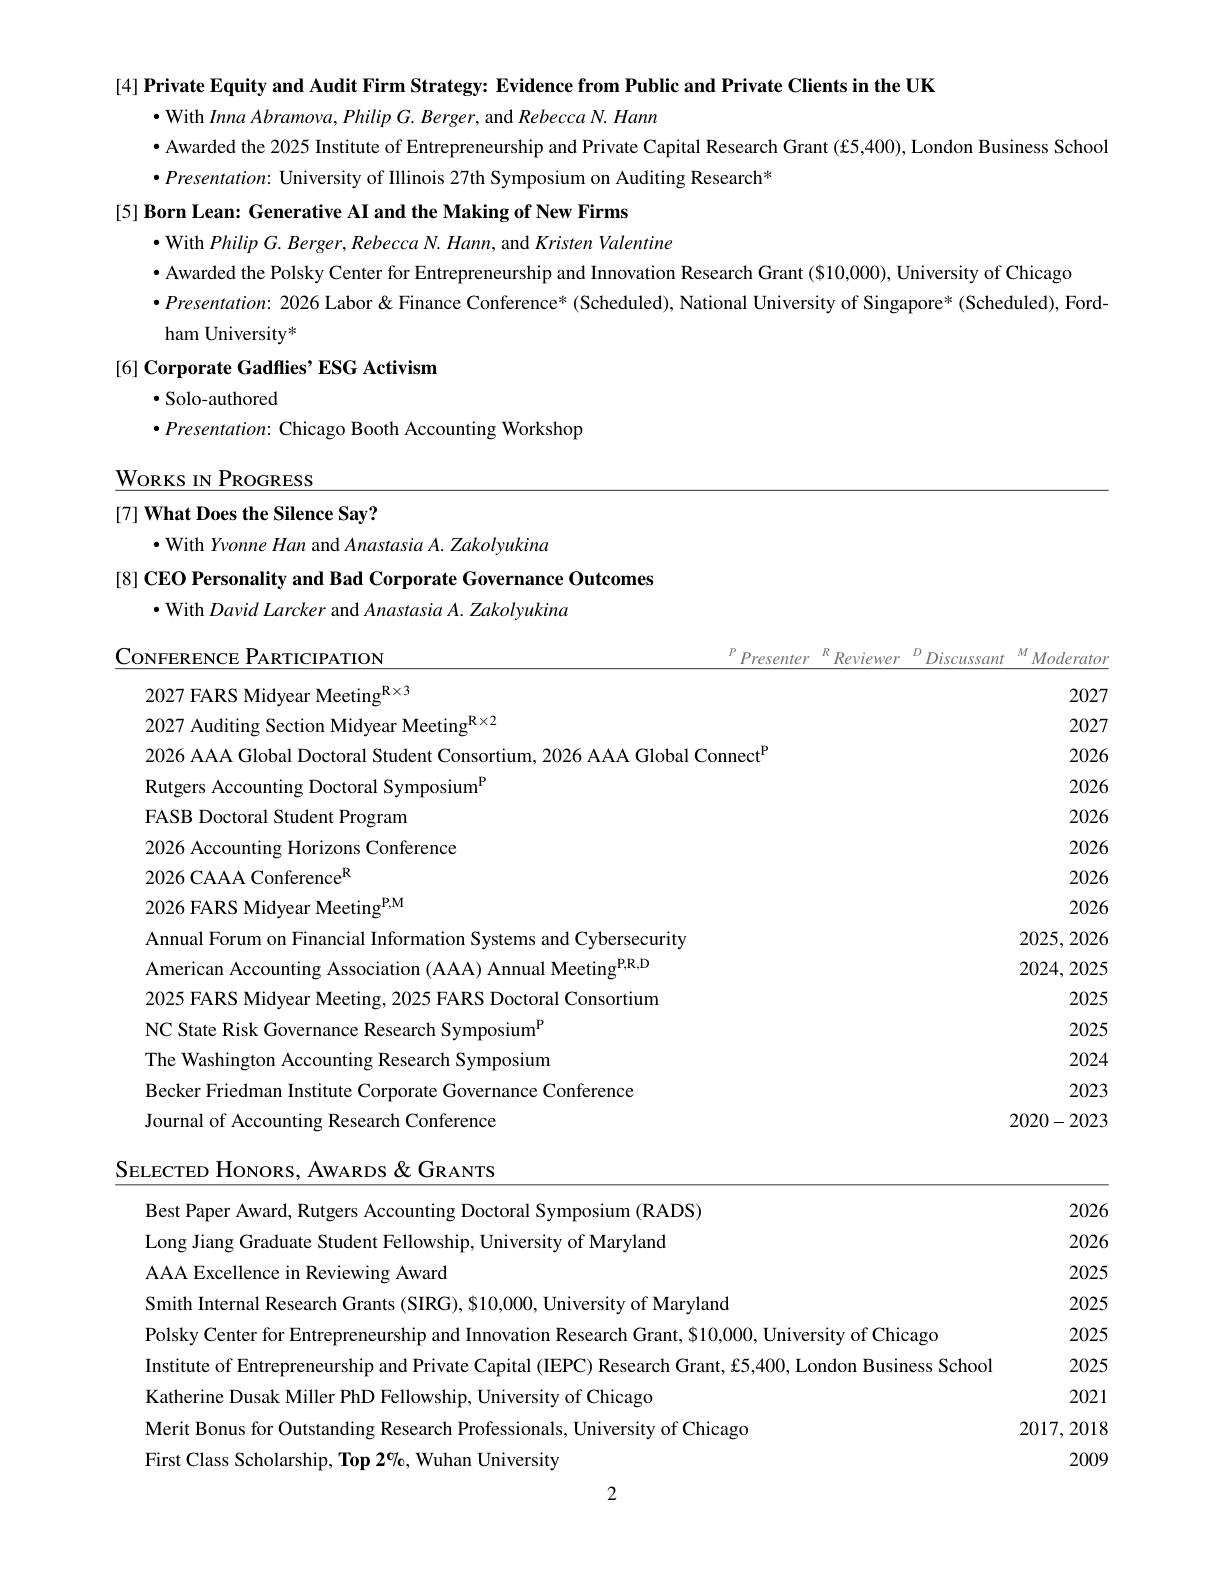
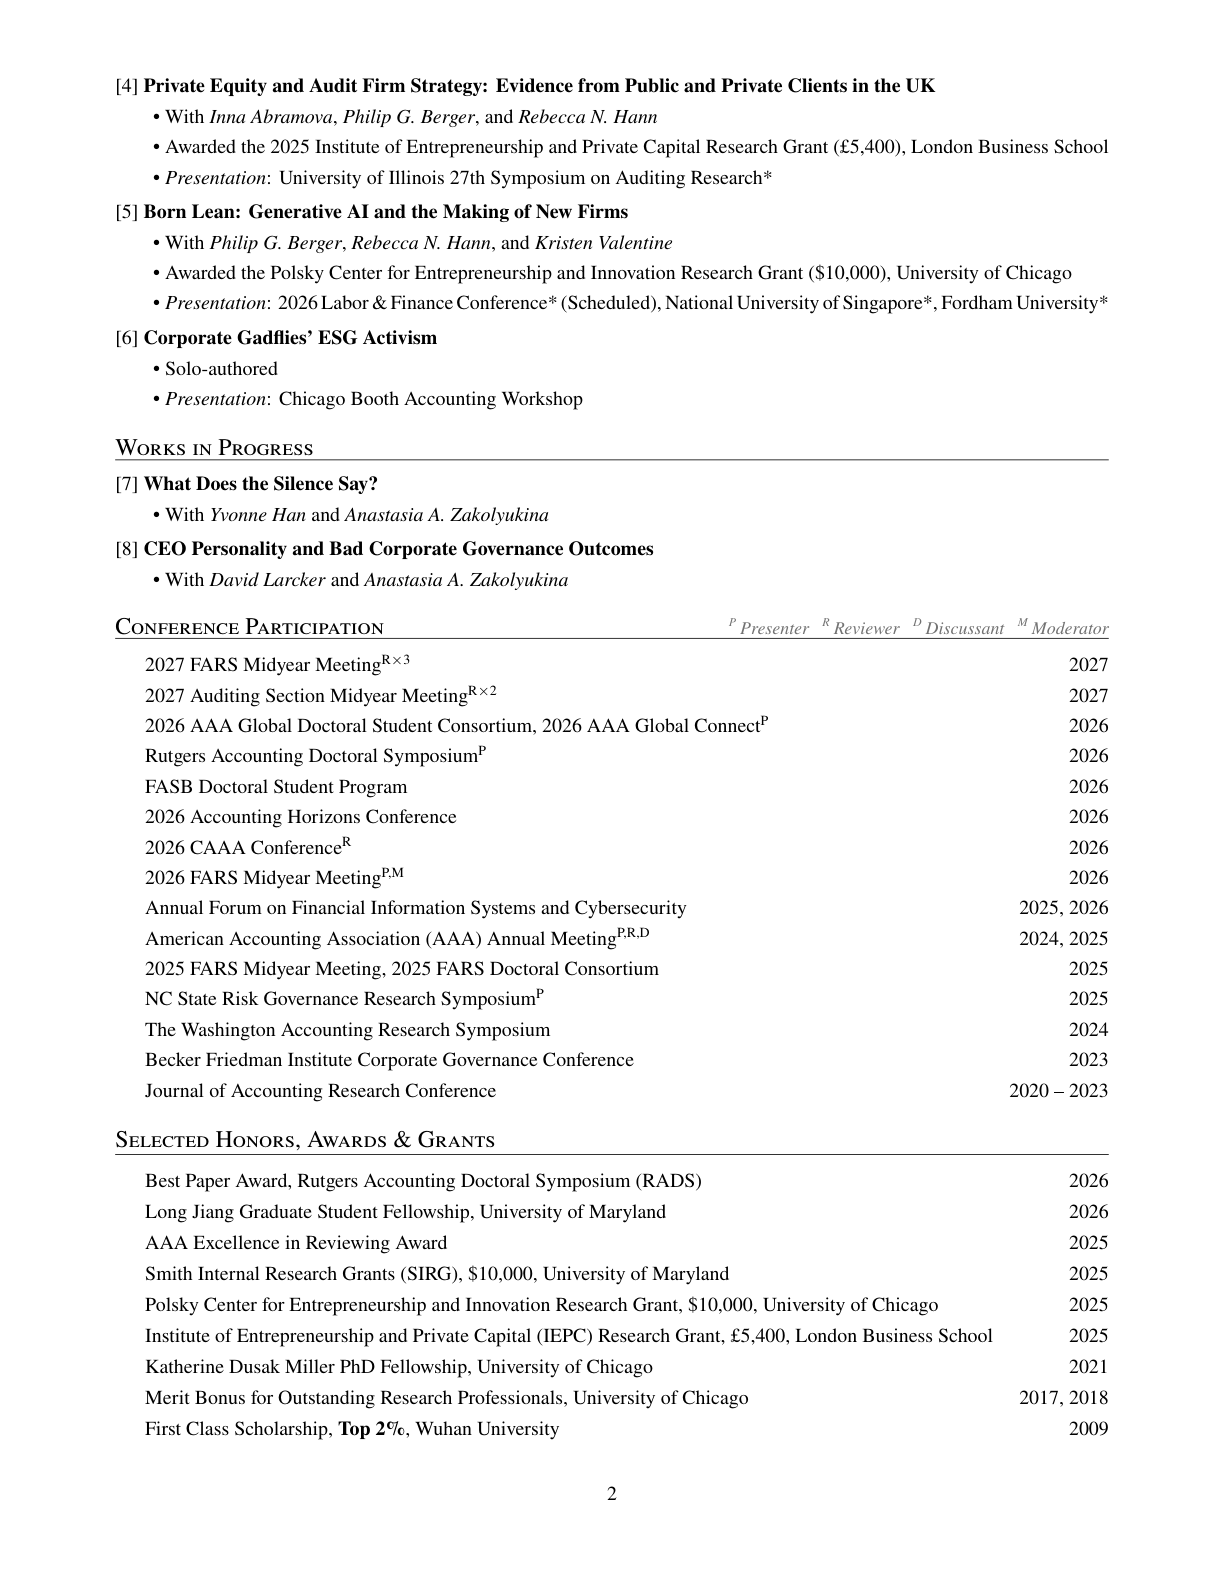
CV: Born Lean presented at NUS (no longer scheduled)

diff --git a/cv/index.html b/cv/index.html
@@ -1,6 +1,6 @@
 <!doctype html>
 <!-- This site was created with Hugo Blox. https://hugoblox.com -->
-<!-- Last Published: October 14, 2026 --><html lang="en-us" dir="ltr"
+<!-- Last Published: October 22, 2026 --><html lang="en-us" dir="ltr"
       data-wc-theme-default="light">
   
 <head>
@@ -485,7 +485,7 @@
       
         
           <div class="cv-page">
-            <img src="/media/cv/page-01.png?v=780a2315bb" alt="Curriculum vitae page 1" loading="lazy">
+            <img src="/media/cv/page-01.png?v=c8770efebc" alt="Curriculum vitae page 1" loading="lazy">
             
               
                 
@@ -514,7 +514,7 @@
       
         
           <div class="cv-page">
-            <img src="/media/cv/page-02.png?v=780a2315bb" alt="Curriculum vitae page 2" loading="lazy">
+            <img src="/media/cv/page-02.png?v=c8770efebc" alt="Curriculum vitae page 2" loading="lazy">
             
               
                 
@@ -525,7 +525,7 @@
       
         
           <div class="cv-page">
-            <img src="/media/cv/page-03.png?v=780a2315bb" alt="Curriculum vitae page 3" loading="lazy">
+            <img src="/media/cv/page-03.png?v=c8770efebc" alt="Curriculum vitae page 3" loading="lazy">
             
               
                 

diff --git a/404.html b/404.html
@@ -1,6 +1,6 @@
 <!doctype html>
 <!-- This site was created with Hugo Blox. https://hugoblox.com -->
-<!-- Last Published: October 14, 2026 --><html lang="en-us" dir="ltr"
+<!-- Last Published: October 22, 2026 --><html lang="en-us" dir="ltr"
       data-wc-theme-default="light">
   
 <head>

diff --git a/categories/index.html b/categories/index.html
@@ -1,6 +1,6 @@
 <!doctype html>
 <!-- This site was created with Hugo Blox. https://hugoblox.com -->
-<!-- Last Published: October 14, 2026 --><html lang="en-us" dir="ltr"
+<!-- Last Published: October 22, 2026 --><html lang="en-us" dir="ltr"
       data-wc-theme-default="light">
   
 <head>

diff --git a/index.html b/index.html
@@ -1,6 +1,6 @@
 <!doctype html>
 <!-- This site was created with Hugo Blox. https://hugoblox.com -->
-<!-- Last Published: October 14, 2026 --><html lang="en-us" dir="ltr"
+<!-- Last Published: October 22, 2026 --><html lang="en-us" dir="ltr"
       data-wc-theme-default="light">
   
 <head>

diff --git a/research/index.html b/research/index.html
@@ -1,6 +1,6 @@
 <!doctype html>
 <!-- This site was created with Hugo Blox. https://hugoblox.com -->
-<!-- Last Published: October 14, 2026 --><html lang="en-us" dir="ltr"
+<!-- Last Published: October 22, 2026 --><html lang="en-us" dir="ltr"
       data-wc-theme-default="light">
   
 <head>

diff --git a/software/index.html b/software/index.html
@@ -1,6 +1,6 @@
 <!doctype html>
 <!-- This site was created with Hugo Blox. https://hugoblox.com -->
-<!-- Last Published: October 14, 2026 --><html lang="en-us" dir="ltr"
+<!-- Last Published: October 22, 2026 --><html lang="en-us" dir="ltr"
       data-wc-theme-default="light">
   
 <head>

diff --git a/tags/index.html b/tags/index.html
@@ -1,6 +1,6 @@
 <!doctype html>
 <!-- This site was created with Hugo Blox. https://hugoblox.com -->
-<!-- Last Published: October 14, 2026 --><html lang="en-us" dir="ltr"
+<!-- Last Published: October 22, 2026 --><html lang="en-us" dir="ltr"
       data-wc-theme-default="light">
   
 <head>

diff --git a/teaching/index.html b/teaching/index.html
@@ -1,6 +1,6 @@
 <!doctype html>
 <!-- This site was created with Hugo Blox. https://hugoblox.com -->
-<!-- Last Published: October 14, 2026 --><html lang="en-us" dir="ltr"
+<!-- Last Published: October 22, 2026 --><html lang="en-us" dir="ltr"
       data-wc-theme-default="light">
   
 <head>
